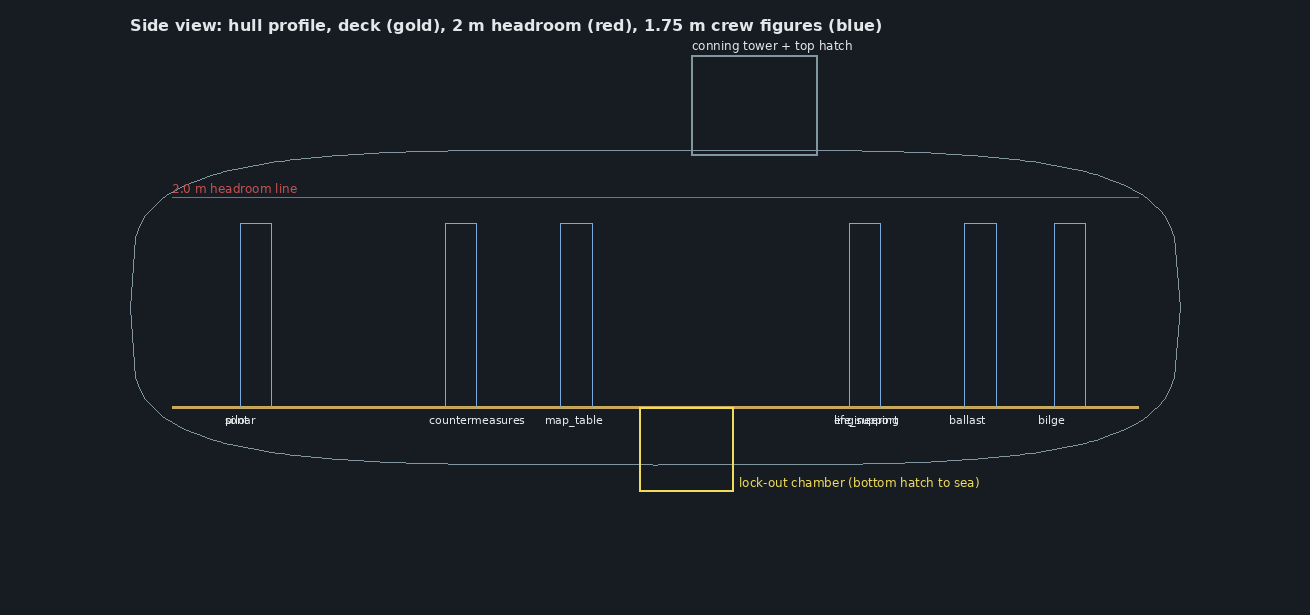
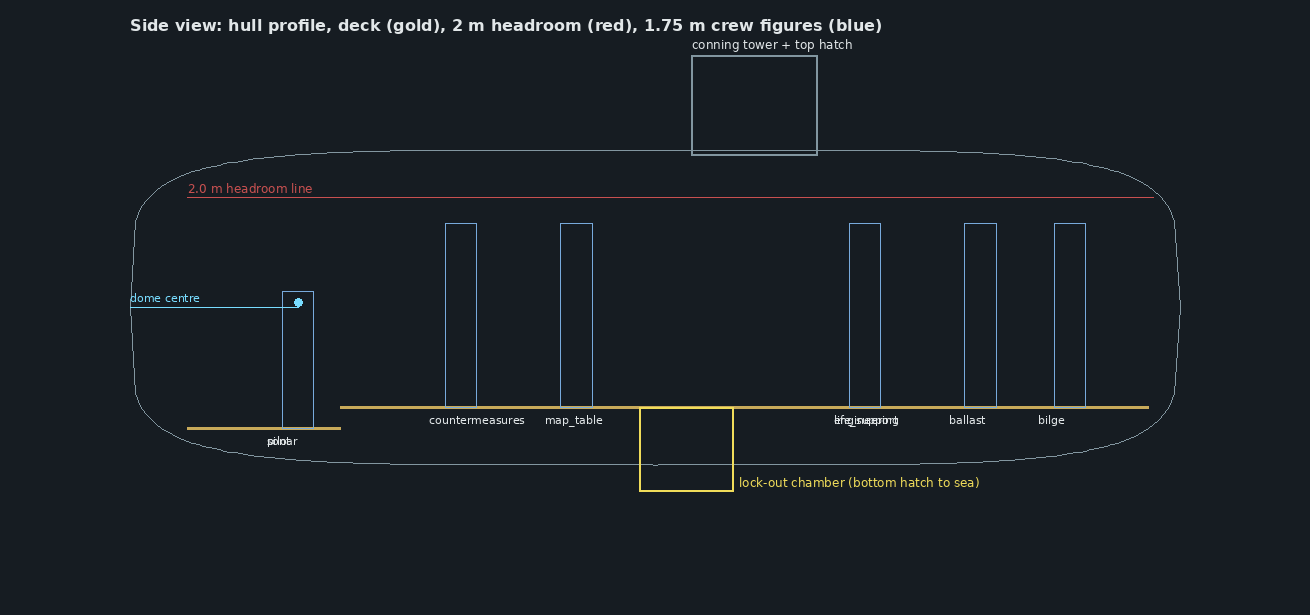
Sub experiment: draft 4 (sunken two-seat cockpit, three displays) and concept brief
The cockpit floor drops one step (0.2 m) so seated eyes sit at the dome's
centre, with a fuller bow to keep floor for two seats side by side. The program
records the three chart displays and their scales (pilot small, sonar large and
close, map table every scale). plan.py handles per-compartment floor heights,
checks that items fit on their floor, and marks seated eye height. Adds the
concept brief for the operational space.

Claude-Session: https://claude.ai/code/session_01AtmEDwwhLDi2UXGBvKDeBg

diff --git a/assets/models/vehicles/sub_interior/plan.py b/assets/models/vehicles/sub_interior/plan.py
@@ -24,7 +24,8 @@ def superellipse_half(extent: float, t: float, p: float) -> float:
 
 
 class Hull:
-    def __init__(self, h: dict) -> None:
+    def __init__(self, h: dict, compartments: list | None = None) -> None:
+        self.compartments = compartments or []
         self.L, self.W, self.H = h["length_m"], h["width_m"], h["height_m"]
         self.pp, self.ps = h["plan_exponent"], h["section_exponent"]
         self.pz = h.get("profile_exponent", self.pp)
@@ -46,11 +47,17 @@ class Hull:
             return 0.0
         return superellipse_half(hw, y / hh, self.ps)
 
-    def deck_y(self) -> float:
-        return -self.H / 2 + self.deck_up
+    def deck_y(self, z: float | None = None) -> float:
+        """Floor height at z: the main deck, plus the compartment's floor_offset_m (the sunken cockpit)."""
+        y = -self.H / 2 + self.deck_up
+        if z is not None:
+            for c in self.compartments:
+                if c["z"][0] <= z <= c["z"][1]:
+                    return y + c.get("floor_offset_m", 0.0)
+        return y
 
     def deck_half_width(self, z: float) -> float:
-        return self.section_half_width(z, self.deck_y())
+        return self.section_half_width(z, self.deck_y(z))
 
     def clear_height(self, z: float, x: float = 0.0) -> float:
         """Inner headroom above the deck at (x, z)."""
@@ -58,7 +65,7 @@ class Hull:
         if hw <= 0 or abs(x) >= hw:
             return 0.0
         top = superellipse_half(hh, x / hw, self.ps)
-        return max(0.0, top - self.deck_y())
+        return max(0.0, top - self.deck_y(z))
 
 
 def place(item: dict, hull: Hull) -> tuple[float, float, float, float]:
@@ -117,6 +124,11 @@ def clearance_report(spec: dict, hull: Hull) -> list[str]:
         else:
             ok = best >= c["aisle_min_m"]
             msg = f"widest free aisle {best:.2f} m (need {c['aisle_min_m']})"
+        # The item itself must fit on its floor: its footprint inside the deck's width at both ends.
+        fits = all(hull.deck_half_width(z) >= max(abs(x0), abs(x1)) - 1e-6 for z in (z0, z1))
+        if not fits:
+            ok = False
+            msg = f"does not fit: deck {2 * fw:.2f} m wide at its ends, needs |x| up to {max(abs(x0), abs(x1)):.2f} m; " + msg
         head = hull.clear_height(it["z"], 0.0)
         head_ok = head >= c["head_clear_m"] or it.get("kind") in ("well",)
         status = "ok  " if ok and head_ok else "FAIL"
@@ -167,6 +179,9 @@ def draw_top(spec: dict, hull: Hull, out: Path) -> None:
         else:
             d.rectangle(box, fill=COLOURS.get(it.get("kind"), (90, 90, 90)), outline=(235, 235, 235))
         d.text((zx(z0), xy(x1) + 2), it["id"], fill=TEXT, font=f)
+    for c in spec["compartments"]:
+        if c.get("floor_offset_m"):
+            d.text((zx(c["z"][0]) + 4, xy(hull.W / 2) + 4), f"floor {c['floor_offset_m']:+.2f} m", fill=(200, 170, 90), font=f)
     d.line([ox, H - 40, ox + S, H - 40], fill=TEXT, width=3)
     d.text((ox + S + 8, H - 48), "1 m", fill=TEXT, font=f)
     d.text((zx(-hull.L / 2) - 50, oy - 8), "BOW", fill=TEXT, font=font(14, True))
@@ -190,7 +205,10 @@ def draw_side(spec: dict, hull: Hull, out: Path) -> None:
     d.polygon(outer, outline=LINE)
     deck = hull.deck_y()
     zs = [z for z in steps if hull.deck_half_width(z) > 0.05]
-    d.line([zx(zs[0]), yy(deck), zx(zs[-1]), yy(deck)], fill=(200, 170, 90), width=3)
+    for c in spec["compartments"]:
+        a, b = max(c["z"][0], zs[0]), min(c["z"][1], zs[-1])
+        fy = hull.deck_y((a + b) / 2)
+        d.line([zx(a), yy(fy), zx(b), yy(fy)], fill=(200, 170, 90), width=3)
     head = spec["clearances"]["head_clear_m"]
     d.line([zx(zs[0]), yy(deck + head), zx(zs[-1]), yy(deck + head)], fill=(200, 80, 80), width=1)
     d.text((zx(zs[0]), yy(deck + head) - 16), f"{head} m headroom line", fill=(200, 80, 80), font=font(12))
@@ -204,10 +222,17 @@ def draw_side(spec: dict, hull: Hull, out: Path) -> None:
     k = trunk["z"]
     d.rectangle([zx(k - 0.45), yy(deck), zx(k + 0.45), yy(-hull.half_height_at(k) - 0.25)], outline=COLOURS["floor_hatch"], width=2)
     d.text((zx(k + 0.5), yy(-hull.half_height_at(k) - 0.1)), "lock-out chamber (bottom hatch to sea)", fill=COLOURS["floor_hatch"], font=font(12))
-    person = 1.75
+    person, seated_eye = 1.75, 1.2
     for it in spec["stations"]:
-        d.rectangle([zx(it["z"] - 0.15), yy(deck + person), zx(it["z"] + 0.15), yy(deck)], outline=(120, 170, 220))
-        d.text((zx(it["z"] - 0.3), yy(deck) + 6), it["id"], fill=TEXT, font=font(11))
+        fy = hull.deck_y(it["z"])
+        tall = seated_eye + 0.1 if it.get("kind") == "seat" else person
+        d.rectangle([zx(it["z"] - 0.15), yy(fy + tall), zx(it["z"] + 0.15), yy(fy)], outline=(120, 170, 220))
+        if it.get("kind") == "seat":
+            ey = fy + seated_eye
+            d.ellipse([zx(it["z"]) - 4, yy(ey) - 4, zx(it["z"]) + 4, yy(ey) + 4], fill=(120, 220, 255))
+        d.text((zx(it["z"] - 0.3), yy(fy) + 6), it["id"], fill=TEXT, font=font(11))
+    d.line([zx(-hull.L / 2), yy(0), zx(-hull.L / 2 + 1.6), yy(0)], fill=(120, 220, 255), width=1)
+    d.text((zx(-hull.L / 2), yy(0) - 16), "dome centre", fill=(120, 220, 255), font=font(11))
     d.text((ox, 16), "Side view: hull profile, deck (gold), 2 m headroom (red), 1.75 m crew figures (blue)", fill=TEXT, font=font(16, True))
     img.save(out)
 
@@ -242,7 +267,7 @@ def main() -> None:
     spec = yaml.safe_load((HERE / "program.yaml").read_text(encoding="utf-8"))
     out = Path(sys.argv[1]) if len(sys.argv) > 1 else HERE / "renders"
     out.mkdir(parents=True, exist_ok=True)
-    hull = Hull(spec["hull"])
+    hull = Hull(spec["hull"], spec["compartments"])
     draw_top(spec, hull, out / "plan_top.png")
     draw_side(spec, hull, out / "plan_side.png")
     draw_front(spec, hull, out / "plan_front.png")

diff --git a/assets/models/vehicles/sub_interior/brief_cockpit_concept.md b/assets/models/vehicles/sub_interior/brief_cockpit_concept.md
@@ -1,0 +1,100 @@
+# Concept brief: the sub's operational space (cockpit, sonar and map table)
+
+A brief for a concept-art session. Bring the finished images back to the asset session to be saved
+here and used as targets for the Blender build. Everything below is draft 4 of the interior program
+(`program.yaml` in this folder); the plan views are in `renders/` (`plan_top.png`, `plan_side.png`).
+
+## The game, in two lines
+
+Silent Water is a first-person co-op submarine stealth game for four. The crew runs a small, old,
+well-built research sub through deep-ocean sites while something enormous listens; talking keeps them
+alive and gives them away. Nothing on board is abstract: information comes from physical instruments
+and in-world screens, never a HUD.
+
+## What this art is for
+
+The **operational space**: the glass dome cockpit (pilot and sonar), and the front of midships
+(countermeasures and the map table). This is where the crew spends most of a dive, so it sets the feel of
+the whole interior. The images will be the visual target an agent builds toward in Blender, so
+**proportions and placement matter as much as mood**. Keep to the layout below.
+
+## Layout facts (keep these)
+
+Units are metres. The sub is about 10 m long, 3.8 m wide and 3.0 m tall, an elliptical hull from the top
+and from the front: wider than tall, full in the middle, rounding off at both ends. Crew are 1.75 m tall.
+
+- **Glass dome cockpit at the bow.** A big bubble of glass, the forward end of the hull. Inside, its floor
+  is **one step (0.2 m) below the main deck**, so a seated person's eyes sit at the dome's centre and
+  the view out is even all round.
+- **Pilot and sonar sit side by side**, shoulder to shoulder, facing forward into the dome: the pilot on
+  the left (port), the sonar operator on the right (starboard). It's cramped, but it fits two.
+- **No wall between the cockpit and midships.** The sunken cockpit opens straight back into the main
+  deck. Standing crew behind them look over both seated heads and out through the dome.
+- **Midships (behind the cockpit):** the **map table** stands free in the middle of the deck, about 1.1 m
+  square, with walking room all round (it's about 2.8 m wide here, with 2.3 m of headroom).
+  **Countermeasures** is a standing panel on the right-hand (starboard) wall, just forward of the table,
+  so its operator can glance at the table to see their decoys work.
+- Further aft (not the focus, but it can be glimpsed): a floor hatch to the lock-out chamber behind the
+  table, a ladder up to the conning tower and lockers by a watertight bulkhead, and engineering beyond.
+- The space should feel **cramped, busy and lived-in**: a catch-all. Pipes and cable runs overhead, kit
+  stowed in every gap, nothing sleek.
+
+## The three displays
+
+There's one shared chart: terrain, contacts, pins and route waypoints. It appears three times, because
+each station needs a **different scale**:
+
+| Station | Size and placement | Shows | Why |
+| --- | --- | --- | --- |
+| Pilot | **Small**, low on the console, out of the forward view | Heading-up chart, near the sub | The dome is the pilot's view; the chart is a glance |
+| Sonar | **Large and close**, filling much of the operator's view | Sonar picture **centred on the sub**, short range | It's their main input. The same controls (zoom, pins, waypoints) let sonar switch between reconnaissance and navigating |
+| Map table | **A table you lean over** | Every scale: the whole site, down to finer detail than sonar | Crew planning; everyone sees everyone's marks |
+
+**Open question, so explore it:** what the display technology looks like. Try two or three treatments
+across the variants:
+- **A.** Soft holographic projections (what the game has now).
+- **B.** Old phosphor screens: green or amber vector-style CRTs in heavy bezels.
+- **C.** A mechanical **pin-table** for the map table: a bed of pins rising into the terrain, with
+  screens for the seats.
+
+Pick whatever reads best for "old, well-built sub".
+
+## Look and feel
+
+- **Tristan's exterior vision:** `reference/exterior_vision_tristan.webp`. An old, rugged, overbuilt
+  research sub with riveted plates, orange paint worn back to grey steel, external pipes, cables and lights.
+  The interior should feel like the inside of *that* sub.
+- **Interior:** painted steel, worn at the edges and walkways; exposed ribs and frames; valve wheels, gauges
+  with backlit faces, toggle switches and labelled stencils (shapes of labels, **no legible text**). Small
+  orange and yellow safety accents. Industrial, utilitarian, competent: never sleek, never cyberpunk.
+- **Light:** dim, warm practical lights and backlit instruments, with the displays as strong light
+  sources. Outside the dome, dark teal-black water with marine snow. A red-light "silent running" variant of
+  one shot would be very useful: the game switches between white and red light.
+- **Low-poly friendly:** strong, chunky shapes that read as silhouettes; avoid fine greebles.
+- **Avoid:** text, logos and watermarks; people's faces in detail (figures for scale are fine, seen from
+  behind); a glossy sci-fi bridge; huge glass walls other than the dome.
+
+## Shots wanted
+
+Use these cameras, so the art lines up with the blockout renders made later. Coordinates are sub-local
+metres: z is along the hull (bow negative), y is height above the main deck, x is starboard positive.
+
+1. **Hero: midships looking forward.** Standing eye height (y 1.65) just aft of the map table (z ≈ 0),
+   on the centreline, looking toward the bow. Shows the table in the foreground, countermeasures on the
+   right wall, and the sunken cockpit with both seats and the dome beyond.
+2. **Pilot's view.** Seated at the pilot's seat, looking forward out of the dome: the small chart low on
+   the console, controls in reach, the water beyond.
+3. **Sonar's view.** Seated at the sonar seat: the large close display dominating, headset and hydrophone
+   controls, the pilot just visible at the left edge.
+4. **Over the shoulder.** Standing behind and between the two seats, looking down and forward: both seats,
+   both displays, the step down, the dome.
+5. **The map table.** Leaning over it from one side, with a second crew member opposite for scale.
+
+For each shot, make **two or three variants** that differ in the display technology (A, B or C above).
+Shot 1 matters most. If time is short, do it first, plus one red-light version.
+
+## Bringing it back
+
+Name files `cockpit_<shot>_<variant>.png`, e.g. `cockpit_hero_B.png` or `cockpit_sonar_A.png`, and note
+which display treatment each variant uses. Bring them to the asset session as files: attached or committed,
+not pasted inline, since inline images can't be saved. Say which you like, and why.
